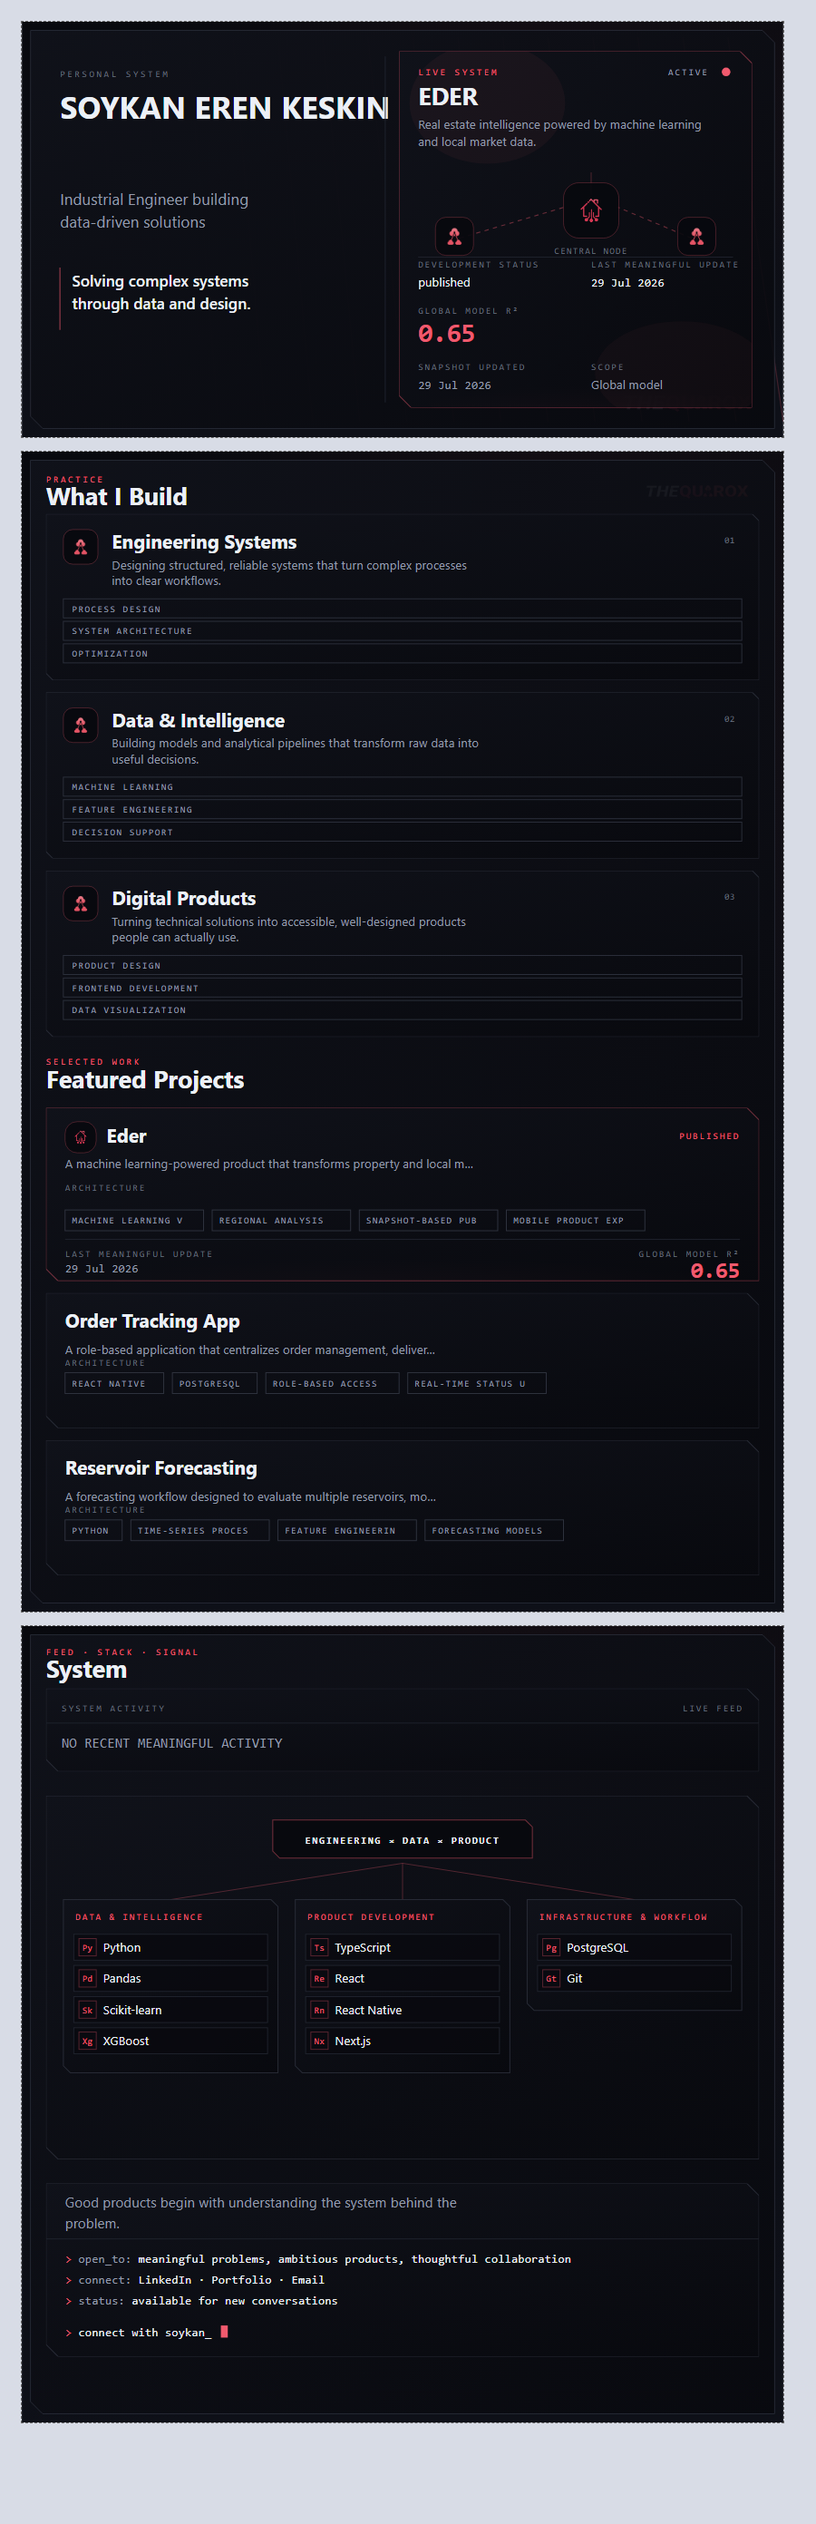
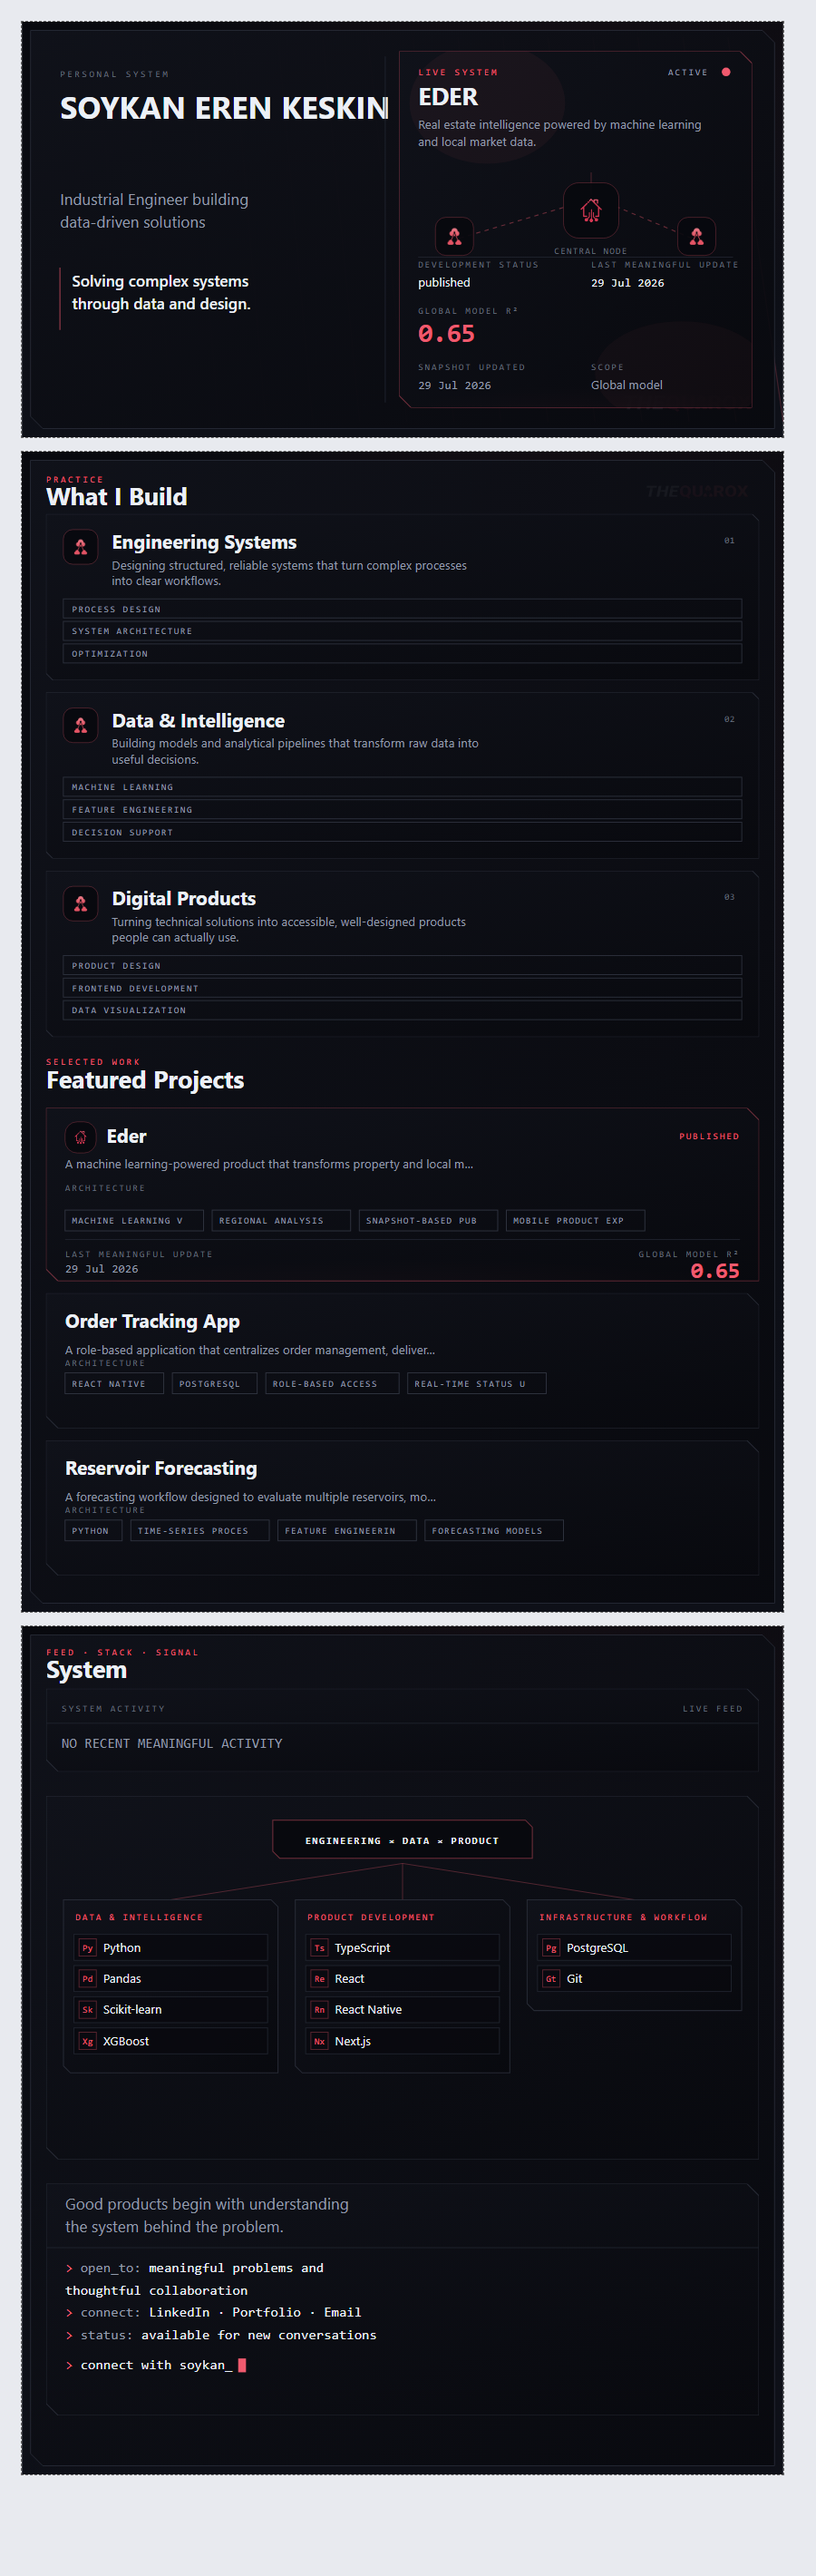
Remove public /dev profile preview and polish System contact SVG.

diff --git a/lib/profile/svg/system.ts b/lib/profile/svg/system.ts
@@ -230,60 +230,76 @@ export function renderSystemCard(data: ProfileData): string {
   `;
   y += techH + 28;
 
-  // —— Contact terminal ——
+  // —— Contact terminal (larger type + explicit wraps for mobile scale) ——
   const contactY = y;
-  const contactH = 200;
+  const contactPadX = PANEL_X + 22;
+  const termSize = GP_TYPE.body; // 16 — readable when scaled to 390px
+  const termLH = 26;
+  const statementLines = [
+    "Good products begin with understanding",
+    "the system behind the problem.",
+  ];
+  const connectLabels = data.contact.connect.map((c) => c.label).join(" · ");
+  const statementBottom = contactY + 30 + (statementLines.length - 1) * 26;
+  const dividerY = statementBottom + 18;
+  const termStart = dividerY + 28;
+  const contactH = termStart - contactY + termLH * 5 + 36;
   const contactClip = "clip-system-contact";
   defsParts.push(clipRect(contactClip, PANEL_X, contactY, PANEL_W, contactH));
-  const openTo = truncate(data.contact.openTo, 72);
-  const connectLabels = data.contact.connect.map((c) => c.label).join(" · ");
 
   const contactPanel = `
     <g clip-path="url(#${contactClip})">
       ${panelPath(PANEL_X, contactY, PANEL_W, contactH, GP_CUT.lg)}
-      <line x1="${PANEL_X}" y1="${contactY + 64}" x2="${PANEL_X + PANEL_W}" y2="${contactY + 64}" stroke="${COLORS.borderSubtle}" stroke-width="1"/>
+      <line x1="${PANEL_X}" y1="${dividerY}" x2="${PANEL_X + PANEL_W}" y2="${dividerY}" stroke="${COLORS.borderSubtle}" stroke-width="1"/>
       ${linesText({
-        x: PANEL_X + 22,
-        y: contactY + 28,
-        lines: wrapActivityLine(data.contact.statement, 68, 2),
-        size: GP_TYPE.body,
-        lineHeight: 24,
+        x: contactPadX,
+        y: contactY + 30,
+        lines: statementLines,
+        size: GP_TYPE.bodyLg,
+        lineHeight: 26,
         fill: COLORS.inkMuted,
         id: "system-contact-statement",
       })}
       <text ${textAttrs({
-        x: PANEL_X + 22,
-        y: contactY + 92,
-        size: GP_TYPE.bodySm,
+        x: contactPadX,
+        y: termStart,
+        size: termSize,
         fill: COLORS.inkMuted,
         mono: true,
         id: "system-contact-open-to",
-      })}><tspan fill="${COLORS.coral}">&gt;</tspan> open_to: <tspan fill="${COLORS.ink}">${escapeXml(openTo)}</tspan></text>
+      })}><tspan fill="${COLORS.coral}">&gt;</tspan> open_to: <tspan fill="${COLORS.ink}">meaningful problems and</tspan></text>
       <text ${textAttrs({
-        x: PANEL_X + 22,
-        y: contactY + 116,
-        size: GP_TYPE.bodySm,
+        x: contactPadX,
+        y: termStart + termLH,
+        size: termSize,
+        fill: COLORS.ink,
+        mono: true,
+      })}>  thoughtful collaboration</text>
+      <text ${textAttrs({
+        x: contactPadX,
+        y: termStart + termLH * 2,
+        size: termSize,
         fill: COLORS.inkMuted,
         mono: true,
         id: "system-contact-connect",
       })}><tspan fill="${COLORS.coral}">&gt;</tspan> connect: <tspan fill="${COLORS.ink}">${escapeXml(connectLabels)}</tspan></text>
       <text ${textAttrs({
-        x: PANEL_X + 22,
-        y: contactY + 140,
-        size: GP_TYPE.bodySm,
+        x: contactPadX,
+        y: termStart + termLH * 3,
+        size: termSize,
         fill: COLORS.inkMuted,
         mono: true,
         id: "system-contact-status",
       })}><tspan fill="${COLORS.coral}">&gt;</tspan> status: <tspan fill="${COLORS.ink}">${escapeXml(data.contact.status)}</tspan></text>
       <text ${textAttrs({
-        x: PANEL_X + 22,
-        y: contactY + 176,
-        size: GP_TYPE.bodySm,
+        x: contactPadX,
+        y: termStart + termLH * 4 + 8,
+        size: termSize,
         fill: COLORS.ink,
         mono: true,
         id: "system-contact-prompt",
       })}><tspan fill="${COLORS.coral}">&gt;</tspan> ${escapeXml(data.contact.prompt)}</text>
-      <rect x="${PANEL_X + 22 + Math.min(220, data.contact.prompt.length * 9)}" y="${contactY + 164}" width="8" height="14" fill="${COLORS.coral}"/>
+      <rect x="${contactPadX + Math.min(240, data.contact.prompt.length * 10)}" y="${termStart + termLH * 4 - 4}" width="9" height="16" fill="${COLORS.coral}"/>
     </g>
   `;
   y += contactH + PAD;

diff --git a/middleware.ts b/middleware.ts
@@ -10,12 +10,8 @@ const LOCALE_PREFIX = new RegExp(
 export default auth((req) => {
   const { pathname } = req.nextUrl;
 
-  // Skip locale logic for admin, auth callbacks, and local preview tooling
-  if (
-    !pathname.startsWith("/admin") &&
-    !pathname.startsWith("/api/auth") &&
-    !pathname.startsWith("/dev")
-  ) {
+  // Skip locale logic for admin and auth callback routes
+  if (!pathname.startsWith("/admin") && !pathname.startsWith("/api/auth")) {
     const hasLocale = LOCALE_PREFIX.test(pathname);
     if (!hasLocale) {
       const url = req.nextUrl.clone();

diff --git a/scripts/verify-profile-svg.ts b/scripts/verify-profile-svg.ts
@@ -13,7 +13,7 @@ import { renderSystemCard } from "../lib/profile/svg/system";
 
 function baseData(overrides: Partial<ProfileData> = {}): ProfileData {
   const data: ProfileData = {
-    version: "profile-v3",
+    version: "profile-v4",
     generatedAt: "2026-08-01T00:00:00.000Z",
     identity: {
       name: "SOYKAN EREN KESKIN",

diff --git a/lib/profile/config.ts b/lib/profile/config.ts
@@ -86,7 +86,7 @@ export type ProfileConfig = z.infer<typeof profileConfigSchema>;
  * Repository slugs are centralized here — adapters/UI never hardcode them.
  */
 const rawProfileConfig = {
-  version: "profile-v3",
+  version: "profile-v4",
   githubUsername: "SoykanErenKeskin",
   commitsPerRepo: 10,
   maxActivityEntries: 5,

diff --git a/lib/profile/svg/fallback.ts b/lib/profile/svg/fallback.ts
@@ -9,7 +9,7 @@ export type SvgBlockId = "hero" | "work" | "system";
 const BLOCK_HEIGHT: Record<SvgBlockId, number> = {
   hero: 480,
   work: 1340,
-  system: 920,
+  system: 980,
 };
 
 const BLOCK_TITLE: Record<SvgBlockId, string> = {

diff --git a/lib/profile/design-tokens.ts b/lib/profile/design-tokens.ts
@@ -91,5 +91,5 @@ export const SVG_CANVAS = {
   width: 880,
   heroHeight: 480,
   workMinHeight: 1340,
-  systemMinHeight: 920,
+  systemMinHeight: 980,
 } as const;
